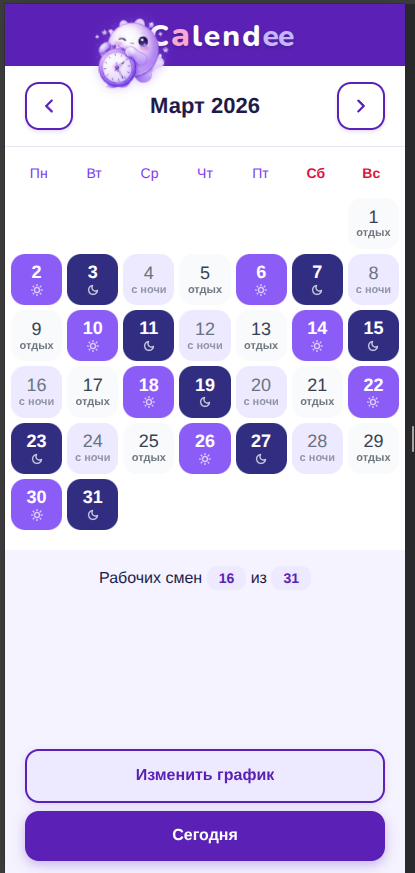
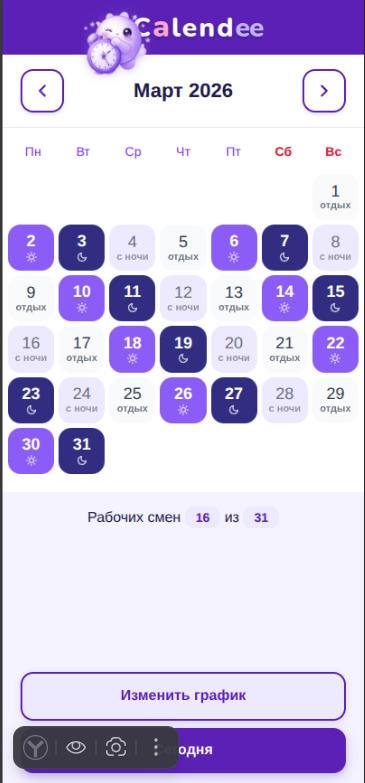
Update screenshots in README

diff --git a/README.md b/README.md
@@ -15,9 +15,9 @@ PWA-календарь сменного рабочего графика.
 Достаточно один раз указать фазу для любого дня -- и весь календарь рассчитается автоматически, вперёд и назад.
 
 <p align="center">
-  <img src="public/screenshot-calendar.png" width="300" alt="Календарь">
+  <img src="public/screenshot-calendar.png" width="220" alt="Календарь">
   &nbsp;&nbsp;
-  <img src="public/screenshot-picker.png" width="300" alt="Выбор смены">
+  <img src="public/screenshot-picker.png" width="220" alt="Выбор смены">
 </p>
 
 ## Установка
